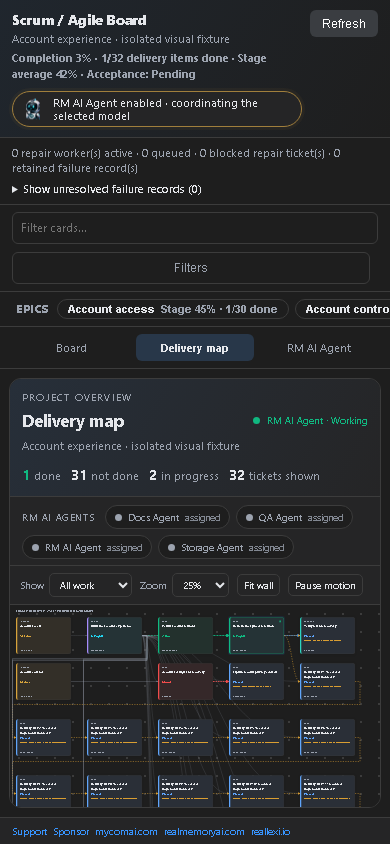
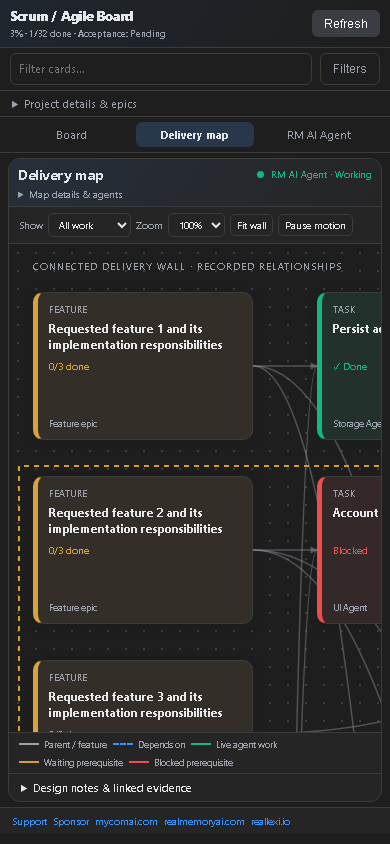
Show compact Scrum page with collapsed context and scrolling proof

diff --git a/realmemory/README.md b/realmemory/README.md
@@ -1,33 +1,17 @@
-# Real Memory AI Agent — connected Scrum delivery wall
+# Compact Scrum board and Delivery map — 1.6.338
 
-# Connected Scrum delivery wall — 1.6.337
+Tickets now take priority over project context. Long request text, epics and repair history are collapsed under **Project details & epics**. The map keeps assigned agents, its repeated description and detailed counts under **Map details & agents**. Filters stay on one compact row; the page, ticket wall and map support scrolling. Pan, zoom and Fit wall remain available.
 
-## VS Code connected delivery wall
+![Compact desktop delivery map](https://raw.githubusercontent.com/ddkits/Reallexi-Public-media-and-files/main/realmemory/releases/1.6.338/after-map-1440.png)
 
-Open **RM AI Agent: Scrum / Agile Board → Delivery map** to follow recorded feature, request, task and subtask links. Ticket colors show their current stage. Red links identify blocked prerequisites, amber links show unfinished prerequisites, and green animated links identify active work. Select a ticket to inspect prerequisites, the work it blocks, design notes, files and evidence. Drag the background to pan, change zoom, or use **Fit wall**. The Kanban board scrolls vertically and horizontally and preserves its position during refreshes.
+![Compact mobile delivery map](https://raw.githubusercontent.com/ddkits/Reallexi-Public-media-and-files/main/realmemory/releases/1.6.338/after-map-390.png)
 
-A fully delivered development ticket can reach Done before the separate final Validator runs. Done on a development ticket records implementation delivery; feature acceptance and project completion still need their validation evidence. Partial writes and model replies alone do not close tickets.
+The same long sample prompt, eleven epics, recorded dependencies, route, theme and viewport were used before and after. At 390 × 844, the map viewport starts at about 243 px after the change, compared with 934 px before it. The board starts at about 158 px instead of 394 px. Hidden context remains available by opening details. These are real Chromium renders of production VS Code webview HTML with sample data and an isolated host adapter; they do not prove a live model run or installed-host completion.
 
-![Connected delivery wall with active and blocked dependencies](https://raw.githubusercontent.com/ddkits/Reallexi-Public-media-and-files/main/realmemory/releases/1.6.337/after-map-1440.png)
+[Before/after measurements and image hashes](visual-proof.json) · [Earlier connected-wall, blocker and runtime verification](../1.6.337/README.md).
 
-![Mobile delivery wall](https://raw.githubusercontent.com/ddkits/Reallexi-Public-media-and-files/main/realmemory/releases/1.6.337/after-map-390.png)
+Fully delivered development tickets can reach Done independently of final testing. Feature acceptance and project completion still require validation evidence. This map is a VS Code feature; browser and CLI surfaces keep their own interfaces.
 
-These are actual Chromium renders of the VS Code webview with explicitly labelled sample project data. They demonstrate UI behavior, not a live model run or completed customer project. This map is a VS Code feature; browser and CLI interfaces retain their own views. [Screenshots, before/after evidence and verification notes](https://github.com/ddkits/Reallexi-Public-media-and-files/blob/main/realmemory/releases/1.6.337/README.md).
+Verification: 118 focused UI/board checks, 57 packaged checks and 47 artifact checks pass; TypeScript checks pass. Installed-host acceptance and the original model run remain separate.
 
-### Before and after
-
-The same sample project, route, theme and viewport were used for each pair: desktop 1440 × 1000 and mobile 390 × 844. Before, vertical scrolling was disabled and task dependencies shared one column. After, the board has a shared vertical scroll surface and dependency-aware colored wall. The desktop map uses the full workspace width. Red prerequisite links and ticket notes identify what blocks what; Fit wall and pan support longer plans.
-
-[Image hashes and measured scroll evidence](visual-proof.json). These captures contain sample data only. Private prompts, provider replies, source files, runtime databases and user logs are excluded.
-
-### Verification boundary
-
-UI and scheduler regression checks are recorded separately from the original project. This release does not claim the paused original model run succeeded. Development completion and final project validation remain separate.
-
-### Blockers and compact overview
-
-![Recorded blocker notes](https://raw.githubusercontent.com/ddkits/Reallexi-Public-media-and-files/main/realmemory/releases/1.6.337/after-map-blockers-1440.png)
-
-![Fit wall on a compact screen](https://raw.githubusercontent.com/ddkits/Reallexi-Public-media-and-files/main/realmemory/releases/1.6.337/after-map-fit-390.png)
-
-Verification: 292 focused checks pass, 38 packaged checks pass, 44 artifact checks pass, and TypeScript checks pass. Browser fixtures verify source-rendered UI, not installed VS Code or the paused original model run.
+![Compact blocker notes with the short sample project](https://raw.githubusercontent.com/ddkits/Reallexi-Public-media-and-files/main/realmemory/releases/1.6.338/after-map-blockers-1440.png)

diff --git a/README.md b/README.md
@@ -10,15 +10,15 @@ Public README, store, and hosted-policy assets live here.
 
 ## VS Code connected delivery wall
 
-Open **RM AI Agent: Scrum / Agile Board → Delivery map** to follow recorded feature, request, task and subtask links. Ticket colors show their current stage. Red links identify blocked prerequisites, amber links show unfinished prerequisites, and green animated links identify active work. Select a ticket to inspect prerequisites, the work it blocks, design notes, files and evidence. Drag the background to pan, change zoom, or use **Fit wall**. The Kanban board scrolls vertically and horizontally and preserves its position during refreshes.
+Open **RM AI Agent: Scrum / Agile Board → Delivery map** to follow recorded feature, request, task and subtask links. Ticket colors show their current stage. Red links identify blocked prerequisites, amber links show unfinished prerequisites, and green animated links identify active work. Select a ticket to inspect prerequisites, the work it blocks, design notes, files and evidence. Drag the background to pan, change zoom, or use **Fit wall**. Long request text, epics and agent lists stay collapsed until you open details. The page scrolls, and the Kanban board scrolls vertically and horizontally and preserves its position during refreshes.
 
 A fully delivered development ticket can reach Done before the separate final Validator runs. Done on a development ticket records implementation delivery; feature acceptance and project completion still need their validation evidence. Partial writes and model replies alone do not close tickets.
 
-![Connected delivery wall with active and blocked dependencies](https://raw.githubusercontent.com/ddkits/Reallexi-Public-media-and-files/main/realmemory/releases/1.6.337/after-map-1440.png)
+![Connected delivery wall with active and blocked dependencies](https://raw.githubusercontent.com/ddkits/Reallexi-Public-media-and-files/main/realmemory/releases/1.6.338/after-map-1440.png)
 
-![Mobile delivery wall](https://raw.githubusercontent.com/ddkits/Reallexi-Public-media-and-files/main/realmemory/releases/1.6.337/after-map-390.png)
+![Mobile delivery wall](https://raw.githubusercontent.com/ddkits/Reallexi-Public-media-and-files/main/realmemory/releases/1.6.338/after-map-390.png)
 
-These are actual Chromium renders of the VS Code webview with explicitly labelled sample project data. They demonstrate UI behavior, not a live model run or completed customer project. This map is a VS Code feature; browser and CLI interfaces retain their own views. [Screenshots, before/after evidence and verification notes](https://github.com/ddkits/Reallexi-Public-media-and-files/blob/main/realmemory/releases/1.6.337/README.md).
+These are actual Chromium renders of the VS Code webview with explicitly labelled sample project data. They demonstrate UI behavior, not a live model run or completed customer project. This map is a VS Code feature; browser and CLI interfaces retain their own views. [Screenshots, before/after evidence and verification notes](https://github.com/ddkits/Reallexi-Public-media-and-files/blob/main/realmemory/releases/1.6.338/README.md).
 
 
 ## Real Memory AI Agent
@@ -41,4 +41,4 @@ These screenshots show the current product UI with sample project data; they are
 
 [Watch or download the captioned 21-second product trailer](realmemory/store/real-memory-ai-agent-trailer.mp4) · [Trailer captions](realmemory/store/real-memory-ai-agent-trailer-captions.vtt) · [Unified privacy policy](realmemory/store/real-memory-ai-agent-privacy-policy.md).
 
-[1.6.337 delivery wall, screenshots and verification notes](realmemory/releases/1.6.337/README.md). [Product guide](realmemory/README.md).
+[1.6.338 delivery wall, screenshots and verification notes](realmemory/releases/1.6.338/README.md). [Product guide](realmemory/README.md).

diff --git a/realmemory/public-files/README.md b/realmemory/public-files/README.md
@@ -3,13 +3,13 @@
 
 ## VS Code connected delivery wall
 
-Open **RM AI Agent: Scrum / Agile Board → Delivery map** to follow recorded feature, request, task and subtask links. Ticket colors show their current stage. Red links identify blocked prerequisites, amber links show unfinished prerequisites, and green animated links identify active work. Select a ticket to inspect prerequisites, the work it blocks, design notes, files and evidence. Drag the background to pan, change zoom, or use **Fit wall**. The Kanban board scrolls vertically and horizontally and preserves its position during refreshes.
+Open **RM AI Agent: Scrum / Agile Board → Delivery map** to follow recorded feature, request, task and subtask links. Ticket colors show their current stage. Red links identify blocked prerequisites, amber links show unfinished prerequisites, and green animated links identify active work. Select a ticket to inspect prerequisites, the work it blocks, design notes, files and evidence. Drag the background to pan, change zoom, or use **Fit wall**. Long request text, epics and agent lists stay collapsed until you open details. The page scrolls, and the Kanban board scrolls vertically and horizontally and preserves its position during refreshes.
 
 A fully delivered development ticket can reach Done before the separate final Validator runs. Done on a development ticket records implementation delivery; feature acceptance and project completion still need their validation evidence. Partial writes and model replies alone do not close tickets.
 
-![Connected delivery wall with active and blocked dependencies](https://raw.githubusercontent.com/ddkits/Reallexi-Public-media-and-files/main/realmemory/releases/1.6.337/after-map-1440.png)
+![Connected delivery wall with active and blocked dependencies](https://raw.githubusercontent.com/ddkits/Reallexi-Public-media-and-files/main/realmemory/releases/1.6.338/after-map-1440.png)
 
-![Mobile delivery wall](https://raw.githubusercontent.com/ddkits/Reallexi-Public-media-and-files/main/realmemory/releases/1.6.337/after-map-390.png)
+![Mobile delivery wall](https://raw.githubusercontent.com/ddkits/Reallexi-Public-media-and-files/main/realmemory/releases/1.6.338/after-map-390.png)
 
-These are actual Chromium renders of the VS Code webview with explicitly labelled sample project data. They demonstrate UI behavior, not a live model run or completed customer project. This map is a VS Code feature; browser and CLI interfaces retain their own views. [Screenshots, before/after evidence and verification notes](https://github.com/ddkits/Reallexi-Public-media-and-files/blob/main/realmemory/releases/1.6.337/README.md).
+These are actual Chromium renders of the VS Code webview with explicitly labelled sample project data. They demonstrate UI behavior, not a live model run or completed customer project. This map is a VS Code feature; browser and CLI interfaces retain their own views. [Screenshots, before/after evidence and verification notes](https://github.com/ddkits/Reallexi-Public-media-and-files/blob/main/realmemory/releases/1.6.338/README.md).
 

diff --git a/realmemory/releases/1.6.338/README.md b/realmemory/releases/1.6.338/README.md
@@ -1,0 +1,17 @@
+# Compact Scrum board and Delivery map — 1.6.338
+
+Tickets now take priority over project context. Long request text, epics and repair history are collapsed under **Project details & epics**. The map keeps assigned agents, its repeated description and detailed counts under **Map details & agents**. Filters stay on one compact row; the page, ticket wall and map support scrolling. Pan, zoom and Fit wall remain available.
+
+![Compact desktop delivery map](https://raw.githubusercontent.com/ddkits/Reallexi-Public-media-and-files/main/realmemory/releases/1.6.338/after-map-1440.png)
+
+![Compact mobile delivery map](https://raw.githubusercontent.com/ddkits/Reallexi-Public-media-and-files/main/realmemory/releases/1.6.338/after-map-390.png)
+
+The same long sample prompt, eleven epics, recorded dependencies, route, theme and viewport were used before and after. At 390 × 844, the map viewport starts at about 243 px after the change, compared with 934 px before it. The board starts at about 158 px instead of 394 px. Hidden context remains available by opening details. These are real Chromium renders of production VS Code webview HTML with sample data and an isolated host adapter; they do not prove a live model run or installed-host completion.
+
+[Before/after measurements and image hashes](visual-proof.json) · [Earlier connected-wall, blocker and runtime verification](../1.6.337/README.md).
+
+Fully delivered development tickets can reach Done independently of final testing. Feature acceptance and project completion still require validation evidence. This map is a VS Code feature; browser and CLI surfaces keep their own interfaces.
+
+Verification: 118 focused UI/board checks, 57 packaged checks and 47 artifact checks pass; TypeScript checks pass. Installed-host acceptance and the original model run remain separate.
+
+![Compact blocker notes with the short sample project](https://raw.githubusercontent.com/ddkits/Reallexi-Public-media-and-files/main/realmemory/releases/1.6.338/after-map-blockers-1440.png)
